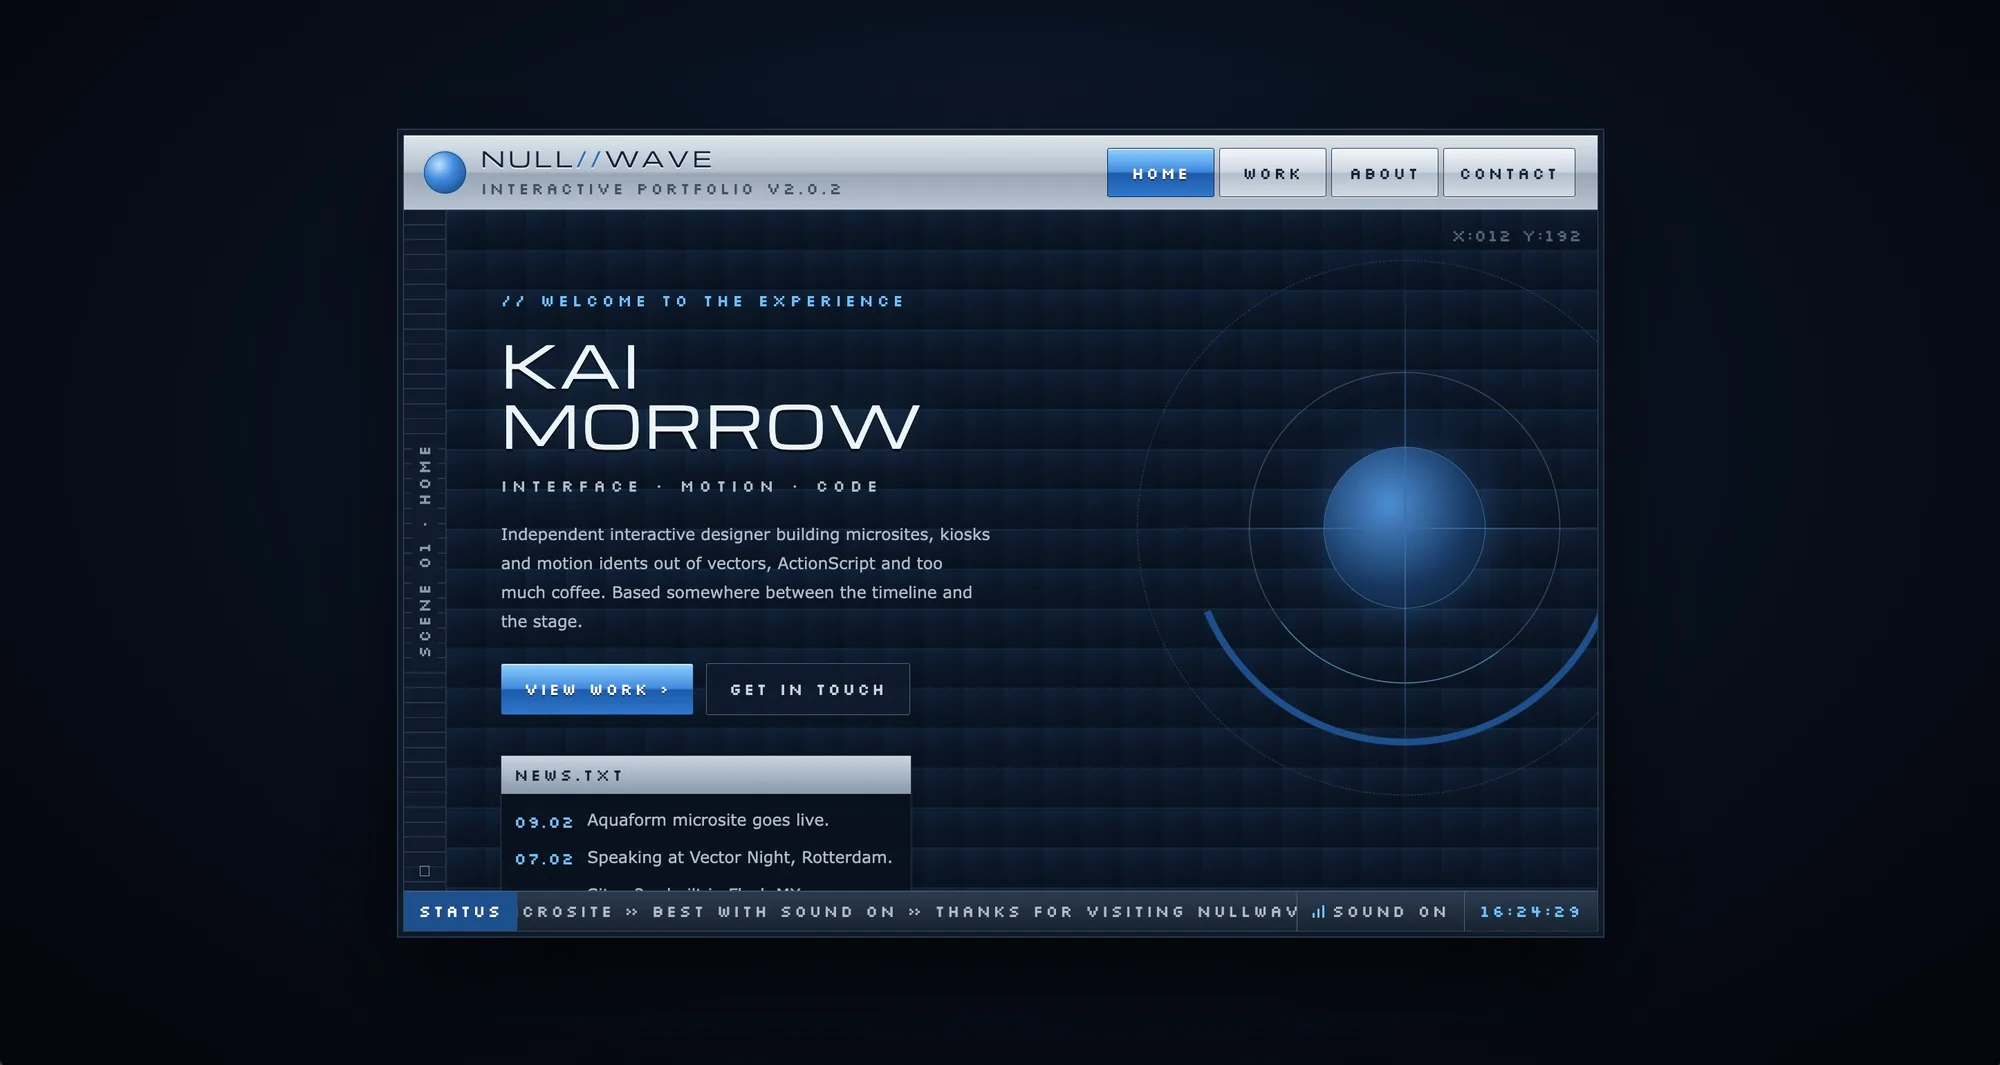
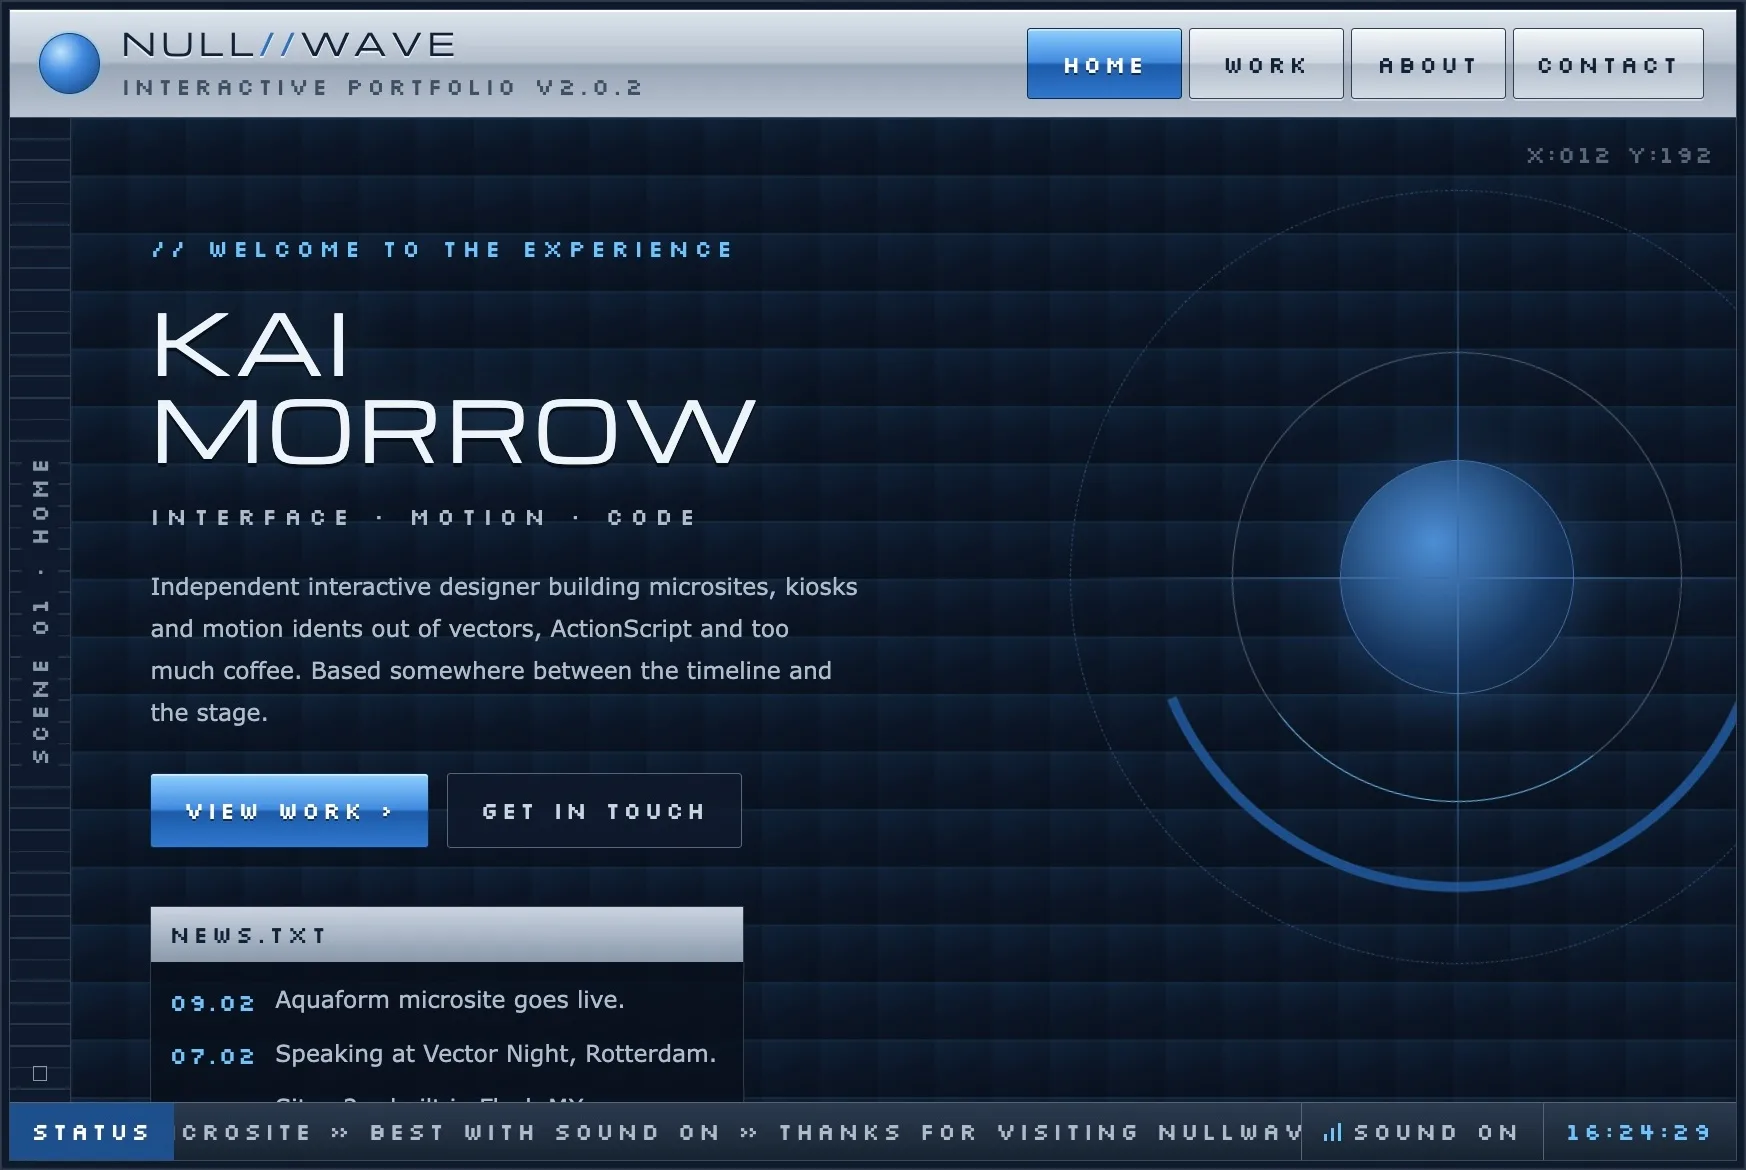
fix thumbnail, fix typo

diff --git a/index.html b/index.html
@@ -4,7 +4,7 @@
     <meta charset="utf-8" />
     <meta name="viewport" content="width=device-width, initial-scale=1" />
     <title>ratherblue</title>
-    <link rel="icon" type="image/svg+xml" href="/favicon.svg" />
+    <link rel="icon" type="image/svg+xml" href="/logo-icon.svg" />
     <link rel="apple-touch-icon" href="/apple-touch-icon.png" />
     <link rel="preconnect" href="https://fonts.googleapis.com" />
     <link rel="preconnect" href="https://fonts.gstatic.com" crossorigin />

diff --git a/src/data/content.ts b/src/data/content.ts
@@ -102,7 +102,8 @@ export const projects: Project[] = [
   {
     idx: '01.3',
     name: 'Nullwave',
-    description: 'Claude design POC, just an homage to the old flash sites popular in the early 200s',
+    description:
+      'Claude design POC. An homage to the old flash sites popular in the early 2000s. (Kai Morrow is a generated name)',
     stack: ['Astro'],
     url: 'https://ratherblue.com/nullwave/',
     status: 'live',
